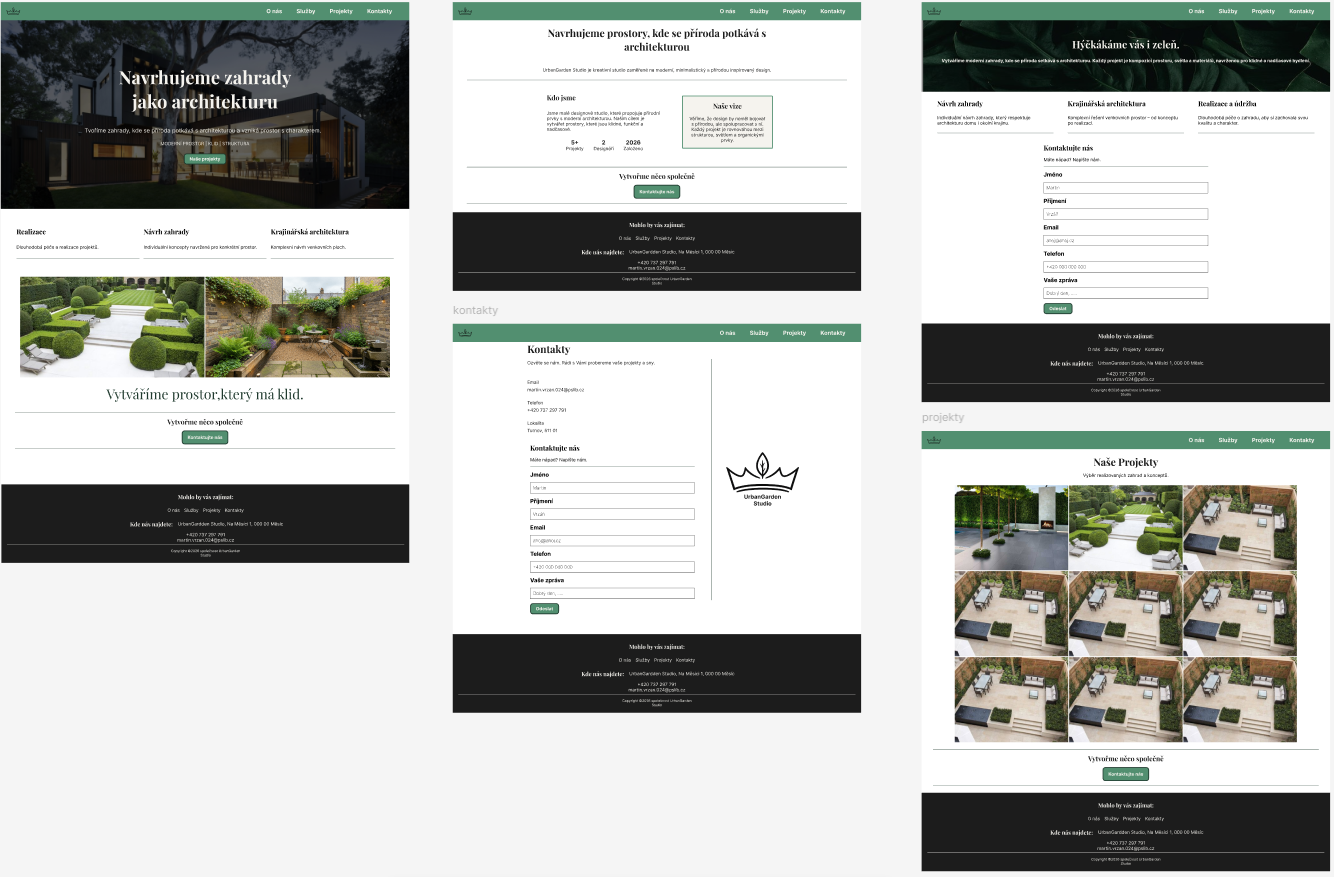
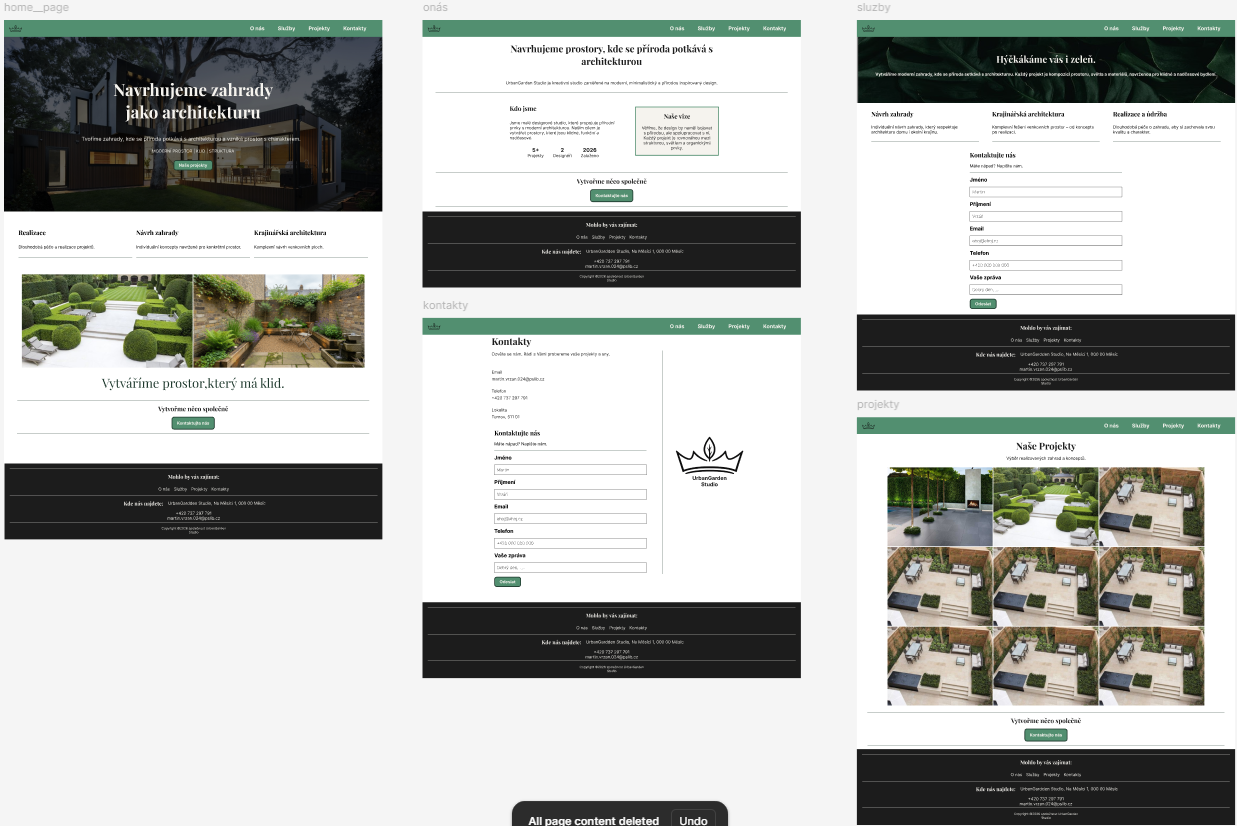
mmm index snad ok

diff --git a/projekty.html b/projekty.html
@@ -9,7 +9,7 @@
     <link rel="icon" type="image/svg+xml" href="./favicon/favicon.svg" />
     <link rel="shortcut icon" href="./favicon/favicon.ico" />
     <link rel="apple-touch-icon" sizes="180x180" href="./favicon/apple-touch-icon.png" />
-    <link rel="manifest" href="./favicon/web-app-manifest-192x192.png" />
+    <link rel="manifest" href="./favicon/site.webmanifest" />
     <link rel="stylesheet" href="CSS/reset.css">
     <link rel="stylesheet" href="CSS/styles.css">
     <link rel="stylesheet" href="CSS/componets.css">
@@ -35,11 +35,43 @@
             <h1>Naše Projekty</h1>
             <p>Výběr realizovaných zahrad a konceptů.</p>
         </section>
-        <section class="galerie">
-            <div class="galerie__obal">
-                
+        <section class="projekty-galerie">
+            <div class="projekty__obal">
+                <div id="lightgallery" class="gallery-grid">
+                    <a class="gallery-grid__item" href="imgs/garden_fireplace.webp" data-lg-size="2048-1366">
+                        <img src="imgs/garden_fireplace.webp" alt="Moderní venkovní krb" class="gallery-grid__img">
+                    </a>
+                    <a class="gallery-grid__item" href="imgs/garden_hedges.webp" data-lg-size="2048-1366">
+                        <img src="imgs/garden_hedges.webp" alt="Zastřižené keře a trávník" class="gallery-grid__img">
+                    </a>
+                    <a class="gallery-grid__item" href="imgs/garden_patio.webp" data-lg-size="2048-1366">
+                        <img src="imgs/garden_patio.webp" alt="Moderní terasové posezení" class="gallery-grid__img">
+                    </a>
+                    <a class="gallery-grid__item" href="imgs/garden_zen.webp" data-lg-size="2048-1366">
+                        <img src="imgs/garden_zen.webp" alt="Terasové posezení" class="gallery-grid__img">
+                    </a>
+                    <a class="gallery-grid__item" href="imgs/garden_vertical.webp" data-lg-size="2048-1366">
+                        <img src="imgs/garden_vertical.webp" alt="Keřová architektura" class="gallery-grid__img">
+                    </a>
+                    <a class="gallery-grid__item" href="imgs/garden_rooftop.webp" data-lg-size="2048-1366">
+                        <img src="imgs/garden_rooftop.webp" alt="Zahradní ohniště a krb" class="gallery-grid__img">
+                    </a>
+                    <a class="gallery-grid__item" href="imgs/garden_pool.webp" data-lg-size="2048-1366">
+                        <img src="imgs/garden_pool.webp" alt="Luxusní terasové posezení" class="gallery-grid__img">
+                    </a>
+                    <a class="gallery-grid__item" href="imgs/garden_path.webp" data-lg-size="2048-1366">
+                        <img src="imgs/garden_path.webp" alt="Parkové keře" class="gallery-grid__img">
+                    </a>
+                    <a class="gallery-grid__item" href="imgs/garden_night.webp" data-lg-size="2048-1366">
+                        <img src="imgs/garden_night.webp" alt="Exteriérový krb" class="gallery-grid__img">
+                    </a>
+                </div>
             </div>
         </section>
+        <span class="divider2"></span>
+        <h2 class="nabidka__nadpis">Vytvořme něco společně</h2>
+        <a class="btn-primary" href="kontakty.html">Kontaktujte nás</a>
+        <span class="divider2"></span>
     </main>
     <footer class="footer">
         <div class="footer__obal">
@@ -63,6 +95,19 @@
             <small class="footer__copyright">Copyright &copy;2026 společnost UrbanGarden Studio</small>
         </div>
     </footer>
+
+    <script src="https://cdn.jsdelivr.net/npm/lightgallery@2.9.0/lightgallery.umd.min.js"></script>
+    <script src="https://cdn.jsdelivr.net/npm/lightgallery@2.9.0/plugins/zoom/lg-zoom.umd.min.js"></script>
+    <script src="https://cdn.jsdelivr.net/npm/lightgallery@2.9.0/plugins/thumbnail/lg-thumbnail.umd.min.js"></script>
+    <script src="script.js"></script>
+    <script>
+        lightGallery(document.getElementById('lightgallery'), {
+            plugins: [lgZoom, lgThumbnail],
+            speed: 400,
+            licenseKey: 'open-source-license',
+        });
+    </script>
+
 </body>
 
 </html>

diff --git a/sluzby.html b/sluzby.html
@@ -9,7 +9,7 @@
     <link rel="icon" type="image/svg+xml" href="./favicon/favicon.svg" />
     <link rel="shortcut icon" href="./favicon/favicon.ico" />
     <link rel="apple-touch-icon" sizes="180x180" href="./favicon/apple-touch-icon.png" />
-    <link rel="manifest" href="./favicon/web-app-manifest-192x192.png" />
+    <link rel="manifest" href="./favicon/site.webmanifest" />
     <link rel="stylesheet" href="CSS/reset.css">
     <link rel="stylesheet" href="CSS/styles.css">
     <link rel="stylesheet" href="CSS/componets.css">
@@ -31,7 +31,56 @@
         </nav>
     </header>
     <main>
-
+        <section class="hero">
+            <img class="hero__img" src="imgs/leaves_banner.webp" alt="zahradni listy banner">
+            <div class="hero__obsah">
+                <h1>Hýčkáme vás i zeleň.</h1>
+                <p>Vytváříme moderní zahrady, kde se příroda setkává s architekturou. Každý projekt je kompozicí
+                    prostoru, světla a materiálů, navržená pro klidné a nadčasové bydlení.</p>
+            </div>
+        </section>
+        <section>
+            <div>
+                <h2>Návrh zahrady</h2>
+                <p>Individuální návrh zahrady, který respektuje architekturu domu i okolí krajinu.</p>
+                <span class="divider2"></span>
+            </div>
+            <div>
+                <h2>Krajinářská architektura</h2>
+                <p>Komplexní řešení venkovních prostor – od konceptu po realizaci.</p>
+                <span class="divider2"></span>
+            </div>
+            <div>
+                <h2>Realizace a údržba</h2>
+                <p>Dlouhodobá péče o zahradu, aby si zachovala svou kvalitu a charakter.</p>
+                <span class="divider2"></span>
+            </div>
+        </section>
+        <section>
+            <h2>Kontaktujte nás</h2>
+            <p>Máte nápad? Napište nám.</p>
+            <form class="formular">
+                <label for="jmeno">Jméno</label>
+                <input type="text" id="jmeno" name="jmeno" placeholder="Martin">
+                <label for="prijmeni">Příjmení</label>
+                <input type="text" id="prijmeni" name="prijmeni" placeholder="Vržan">
+                <label for="email">Email</label>
+                <input type="email" id="email" name="email" placeholder="ahoj@ahoj.cz">
+                <label for="telefon">Telefon</label>
+                <input type="tel" id="telefon" name="telefon" placeholder="+420 000 000 000">
+                <label for="zprava">Vaše zpráva</label>
+                <textarea id="zprava" name="zprava" placeholder="Dobrý den, ..."></textarea>
+                <button type="submit" class="btn-primary">Odeslat</button>
+            </form>
+        </section>
+        <section class="nabidka__sekce">
+            <div class="nabidka__obal">
+                <span class="divider2"></span>
+                <h2 class="nabidka__nadpis">Vytvořme něco společně</h2>
+                <a class="btn-primary" href="kontakty.html">Kontaktujte nás</a>
+                <span class="divider2"></span>
+            </div>
+        </section>
     </main>
     <footer class="footer">
         <div class="footer__obal">

diff --git a/kontakty.html b/kontakty.html
@@ -9,7 +9,7 @@
     <link rel="icon" type="image/svg+xml" href="./favicon/favicon.svg" />
     <link rel="shortcut icon" href="./favicon/favicon.ico" />
     <link rel="apple-touch-icon" sizes="180x180" href="./favicon/apple-touch-icon.png" />
-    <link rel="manifest" href="./favicon/web-app-manifest-192x192.png" />
+    <link rel="manifest" href="./favicon/site.webmanifest" />
     <link rel="stylesheet" href="CSS/reset.css">
     <link rel="stylesheet" href="CSS/styles.css">
     <link rel="stylesheet" href="CSS/componets.css">
@@ -17,7 +17,7 @@
 </head>
 
 <body>
-    <header>
+    <header class="header">
         <div class="ikona__obal">
             <a href="index.html"><img class="header__ikona" src="favicon/favicon-96x96.png" alt="ikona domů"></a>
         </div>
@@ -31,7 +31,43 @@
         </nav>
     </header>
     <main>
-
+        <section>
+            <div>
+                <h1>Kontakty</h1>
+                <p>Ozvěte se nám. Rádi s Vámi probereme vaše projekty a sny.</p>
+            </div>
+            <div>
+                <div>
+                    <span>Email</span>
+                    <a href="mailto:martin.vrzan.024@pslib.cz">martin.vrzan.024@pslib.cz</a>
+                </div>
+                <div>
+                    <span>Telefon</span>
+                    <a href="tel:+420737297791">+420 737 297 791</a>
+                </div>
+                <div>
+                    <span>Lokalita</span>
+                    <span>Turnov, 511 01</span>
+                </div>
+            </div>
+        </section>
+        <section>
+            <h2>Kontaktujte nás</h2>
+            <p>Máte nápad? Napište nám.</p>
+            <form class="formular">
+                <label for="jmeno">Jméno</label>
+                <input type="text" id="jmeno" name="jmeno" placeholder="Martin">
+                <label for="prijmeni">Příjmení</label>
+                <input type="text" id="prijmeni" name="prijmeni" placeholder="Vržan">
+                <label for="email">Email</label>
+                <input type="email" id="email" name="email" placeholder="ahoj@ahoj.cz">
+                <label for="telefon">Telefon</label>
+                <input type="tel" id="telefon" name="telefon" placeholder="+420 000 000 000">
+                <label for="zprava">Vaše zpráva</label>
+                <textarea id="zprava" name="zprava" placeholder="Dobrý den, ..."></textarea>
+                <button type="submit" class="btn-primary">Odeslat</button>
+            </form>
+        </section>
     </main>
     <footer class="footer">
         <div class="footer__obal">

diff --git a/index.html b/index.html
@@ -9,7 +9,7 @@
     <link rel="icon" type="image/svg+xml" href="./favicon/favicon.svg" />
     <link rel="shortcut icon" href="./favicon/favicon.ico" />
     <link rel="apple-touch-icon" sizes="180x180" href="./favicon/apple-touch-icon.png" />
-    <link rel="manifest" href="./favicon/web-app-manifest-192x192.png" />
+    <link rel="manifest" href="./favicon/site.webmanifest" />
     <link rel="stylesheet" href="CSS/reset.css">
     <link rel="stylesheet" href="CSS/styles.css">
     <link rel="stylesheet" href="CSS/componets.css">
@@ -32,8 +32,9 @@
     </header>
 
     <main>
-        <section>
-            <div>
+        <section class="hero">
+            <img class="hero__img" src="imgs/hero_home.webp" alt="moderní zahrada">
+            <div class="hero__obsah">
                 <h1>Navrhujeme zahrady jako architekturu</h1>
                 <p>Tvoříme zahrady, kde se příroda potkává s architekturou a vnáší do života klid a charakter.</p>
                 <p>MODERNÍ PROSTOR | KLID | STRUKTURA</p>
@@ -56,7 +57,7 @@
                 <p>Komplexní návrh venkovních ploch.</p>
                 <span class="divider2"></span>
             </div>
-            <div><img src="imgs/garden_hedges.png" alt="keříky"><img src="imgs/garden_patio.png" alt="patio"></div>
+            <div><img src="imgs/garden_hedges.webp" alt="keříky"><img src="imgs/garden_patio.webp" alt="patio"></div>
             <cite class="citace">Vytváříme prostor, který má klid.</cite>
         </section>
         <section class="nabidka__sekce">

diff --git a/onas.html b/onas.html
@@ -9,7 +9,7 @@
     <link rel="icon" type="image/svg+xml" href="./favicon/favicon.svg" />
     <link rel="shortcut icon" href="./favicon/favicon.ico" />
     <link rel="apple-touch-icon" sizes="180x180" href="./favicon/apple-touch-icon.png" />
-    <link rel="manifest" href="./favicon/web-app-manifest-192x192.png" />
+    <link rel="manifest" href="./favicon/site.webmanifest" />
     <link rel="stylesheet" href="CSS/reset.css">
     <link rel="stylesheet" href="CSS/styles.css">
     <link rel="stylesheet" href="CSS/componets.css">

diff --git a/CSS/componets.css b/CSS/componets.css
@@ -5,6 +5,7 @@
 .btn-primary {
     background-color: var(--grey-green);
     border: solid var(--forest-green);
+    color: white;
     border-radius: 5px;
     padding: 5px;
     margin: auto;
